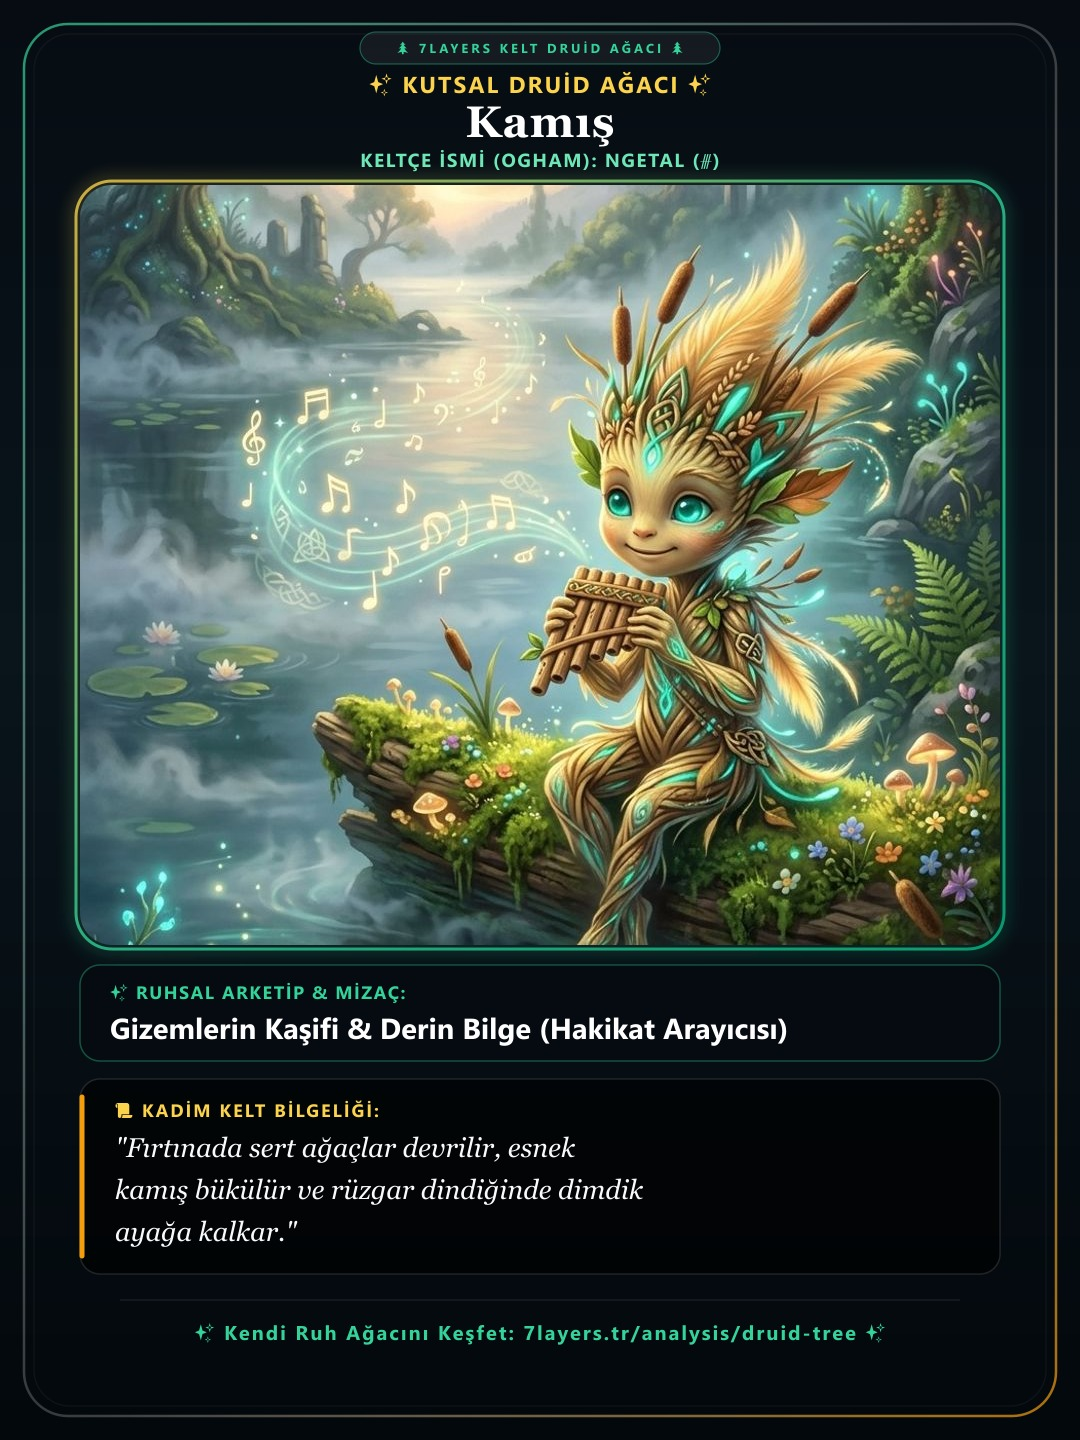
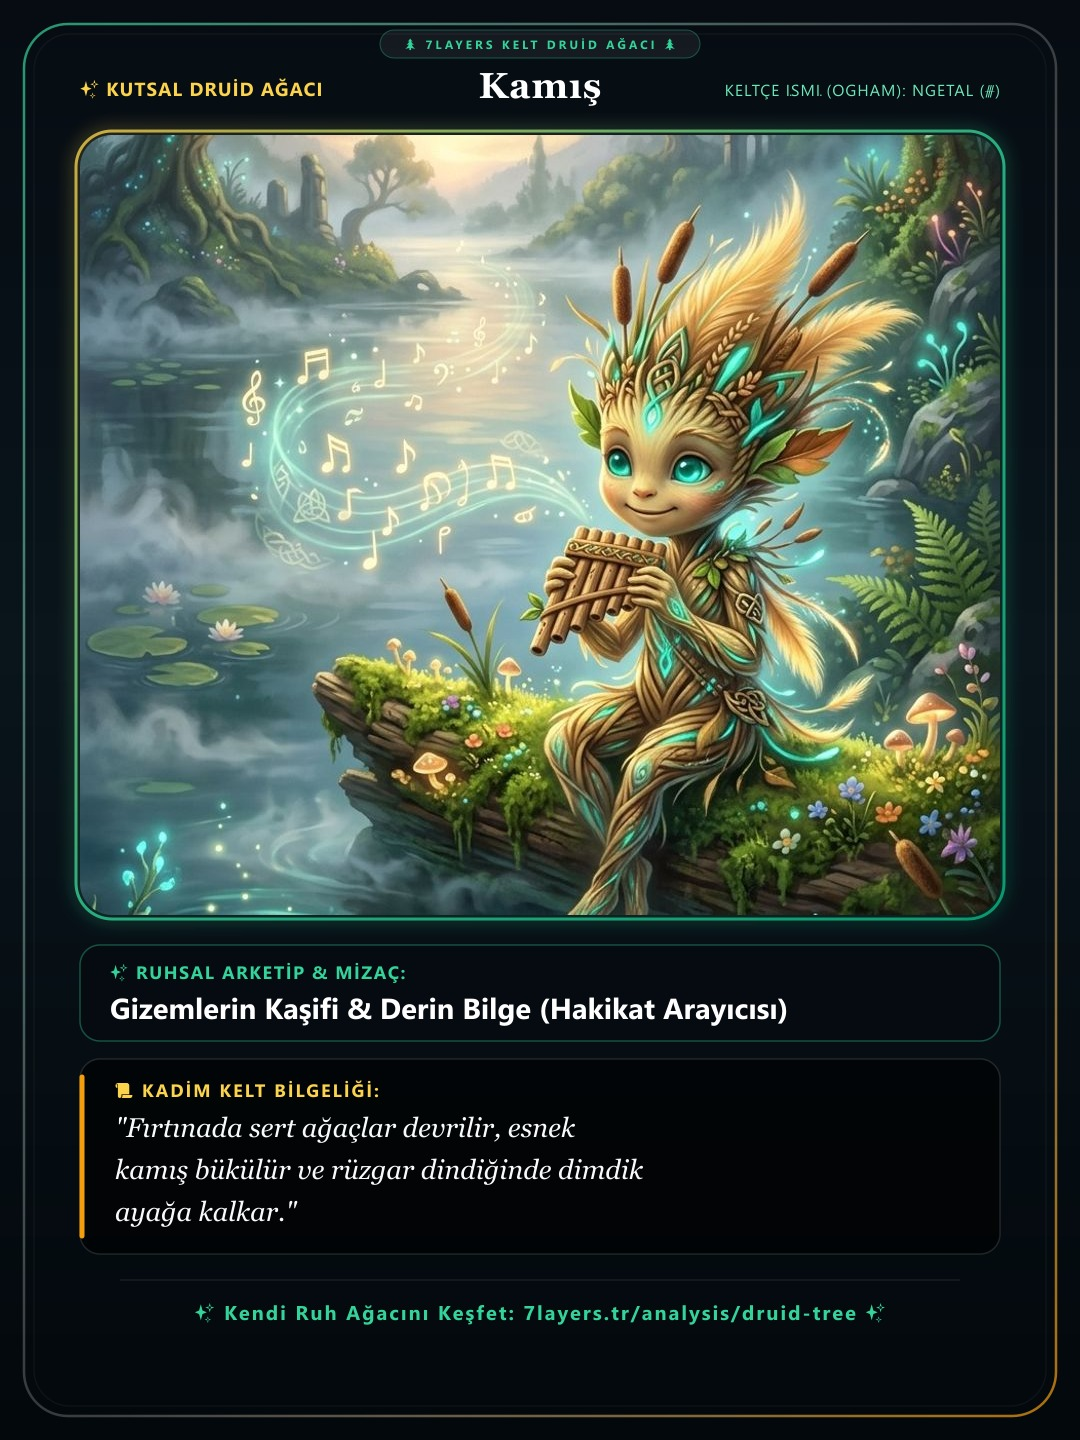
feat(druid): finalize horizontal 3-title header with complete Ogham names and symbols for all 13 trees

diff --git a/src/features/astrology/server/druidTreeCardService.ts b/src/features/astrology/server/druidTreeCardService.ts
@@ -5,7 +5,8 @@ import { DruidTree } from '../engine/DruidTreeEngine';
 const CARD_WIDTH = 1080;
 const CARD_HEIGHT = 1440;
 const INNER_IMG_WIDTH = 920;
-const INNER_IMG_HEIGHT = 760;
+const INNER_IMG_HEIGHT = 780;
+const INNER_IMG_TOP = 135;
 
 function escapeXml(unsafe: string): string {
   return unsafe.replace(/[<>&'"]/g, (c) => {
@@ -40,11 +41,6 @@ function wrapText(text: string, maxCharsPerLine: number = 44): string[] {
 /**
  * Türkçe büyük ünlü ve ses uyumuna göre isme tam uygun iyelik eki oluşturur
  * Örnek: Baha -> BAHA'NIN DRUİD AĞACI
- *        Ali -> ALİ'NİN DRUİD AĞACI
- *        Mehmet -> MEHMET'İN DRUİD AĞACI
- *        Can -> CAN'IN DRUİD AĞACI
- *        Onur -> ONUR'UN DRUİD AĞACI
- *        Gül -> GÜL'ÜN DRUİD AĞACI
  */
 export function formatTurkishPossessive(name: string): string {
   const clean = name.trim();
@@ -76,7 +72,7 @@ export function formatTurkishPossessive(name: string): string {
 export async function renderDruidTreeCard(tree: DruidTree, rawImagePath: string, personName?: string): Promise<Buffer> {
   const rawBuffer = await fs.promises.readFile(rawImagePath);
 
-  // Resize inner art to 920x760 with center positioning so characters are framed
+  // Resize inner art to 920x780 with center positioning
   const resizedInnerImg = await sharp(rawBuffer)
     .resize(INNER_IMG_WIDTH, INNER_IMG_HEIGHT, { fit: 'cover', position: 'center' })
     .toBuffer();
@@ -92,8 +88,8 @@ export async function renderDruidTreeCard(tree: DruidTree, rawImagePath: string,
     .png()
     .toBuffer();
 
-  const oghamTitle = `KELTÇE İSMİ (OGHAM): ${tree.oghamName.toUpperCase()} (${tree.oghamSymbol})`;
   const proverbLines = wrapText(`"${tree.druidicProverb}"`, 44);
+  const oghamFull = `KELTÇE İSMİ (OGHAM): ${tree.oghamName.toUpperCase()} (${tree.oghamSymbol})`;
 
   const cleanName = personName ? personName.trim() : '';
   const personalizedTitle = cleanName ? formatTurkishPossessive(cleanName) : 'KUTSAL DRUİD AĞACI';
@@ -138,35 +134,35 @@ export async function renderDruidTreeCard(tree: DruidTree, rawImagePath: string,
       <rect x="24" y="24" width="${CARD_WIDTH - 48}" height="${CARD_HEIGHT - 48}" rx="44" fill="none" stroke="url(#borderGrad)" stroke-width="2.5"/>
       <rect x="34" y="34" width="${CARD_WIDTH - 68}" height="${CARD_HEIGHT - 68}" rx="36" fill="none" stroke="#FFFFFF" stroke-opacity="0.04" stroke-width="1.5"/>
 
-      <!-- Header Section -->
-      <g transform="translate(0, 0)">
-        <!-- Top Pill Badge -->
-        <rect x="360" y="32" width="360" height="32" rx="16" fill="#FFFFFF" fill-opacity="0.06" stroke="#34D399" stroke-opacity="0.4" stroke-width="1.2"/>
-        <text x="540" y="53" font-family="'Segoe UI', Roboto, sans-serif" font-size="13" font-weight="700" fill="#34D399" text-anchor="middle" letter-spacing="3">
-          🌲 7LAYERS KELT DRUİD AĞACI 🌲
+      <!-- Top Pill Badge (7LAYERS) -->
+      <rect x="380" y="30" width="320" height="28" rx="14" fill="#FFFFFF" fill-opacity="0.06" stroke="#34D399" stroke-opacity="0.35" stroke-width="1"/>
+      <text x="540" y="49" font-family="'Segoe UI', Roboto, sans-serif" font-size="12" font-weight="700" fill="#34D399" text-anchor="middle" letter-spacing="3">
+        🌲 7LAYERS KELT DRUİD AĞACI 🌲
+      </text>
+
+      <!-- Üç Başlık Yan Yana (Y: 96) -->
+      <g transform="translate(80, 96)">
+        <!-- Sol: Kutsal Druid Ağacı / Kişiye Özel Başlık -->
+        <text x="0" y="0" font-family="'Segoe UI', Roboto, sans-serif" font-size="19" font-weight="800" fill="#FCD34D" text-anchor="start" letter-spacing="1">
+          ✨ ${escapeXml(personalizedTitle)}
         </text>
 
-        <!-- Kişiye Özel İsim Şeridi -->
-        <text x="540" y="93" font-family="'Segoe UI', Roboto, sans-serif" font-size="23" font-weight="800" fill="#FCD34D" text-anchor="middle" letter-spacing="2">
-          ✨ ${escapeXml(personalizedTitle)} ✨
-        </text>
-
-        <!-- Ağaç Adı -->
-        <text x="540" y="137" font-family="'Georgia', serif" font-size="44" font-weight="bold" fill="#FFFFFF" text-anchor="middle" letter-spacing="1">
+        <!-- Orta: Ağaç Adı -->
+        <text x="460" y="2" font-family="'Georgia', serif" font-size="36" font-weight="bold" fill="#FFFFFF" text-anchor="middle" letter-spacing="1">
           ${escapeXml(tree.name)}
         </text>
 
-        <!-- Keltçe İsmi & Ogham -->
-        <text x="540" y="167" font-family="'Segoe UI', Roboto, sans-serif" font-size="19" font-weight="700" fill="#6EE7B7" text-anchor="middle" letter-spacing="1.5">
-          ${escapeXml(oghamTitle)}
+        <!-- Sağ: Keltçe İsmi ve Ogham Sembolü -->
+        <text x="920" y="0" font-family="'Segoe UI Historic', 'Segoe UI Symbol', 'Noto Sans Ogham', 'Segoe UI', Roboto, sans-serif" font-size="16" font-weight="700" fill="#6EE7B7" text-anchor="end" letter-spacing="1">
+          ${escapeXml(oghamFull)}
         </text>
       </g>
 
       <!-- Inner Image Border Glow -->
-      <rect x="76" y="181" width="${INNER_IMG_WIDTH + 8}" height="${INNER_IMG_HEIGHT + 8}" rx="36" fill="none" stroke="url(#goldGrad)" stroke-width="3" opacity="0.8" filter="url(#glow)"/>
+      <rect x="76" y="${INNER_IMG_TOP - 4}" width="${INNER_IMG_WIDTH + 8}" height="${INNER_IMG_HEIGHT + 8}" rx="36" fill="none" stroke="url(#goldGrad)" stroke-width="3" opacity="0.8" filter="url(#glow)"/>
 
       <!-- Bottom Card Details -->
-      <g transform="translate(0, 965)">
+      <g transform="translate(0, 945)">
         <!-- Archetype Box -->
         <rect x="80" y="0" width="${CARD_WIDTH - 160}" height="96" rx="20" fill="#040A10" fill-opacity="0.75" stroke="#34D399" stroke-opacity="0.35" stroke-width="1.5"/>
         
@@ -208,7 +204,7 @@ export async function renderDruidTreeCard(tree: DruidTree, rawImagePath: string,
     .composite([
       {
         input: roundedInnerImg,
-        top: 185,
+        top: INNER_IMG_TOP,
         left: 80
       }
     ])
